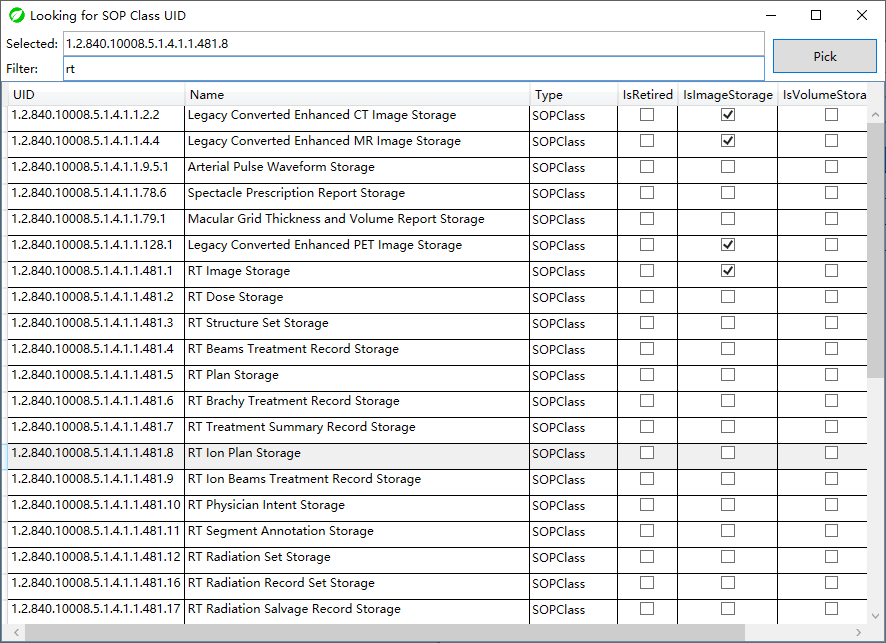
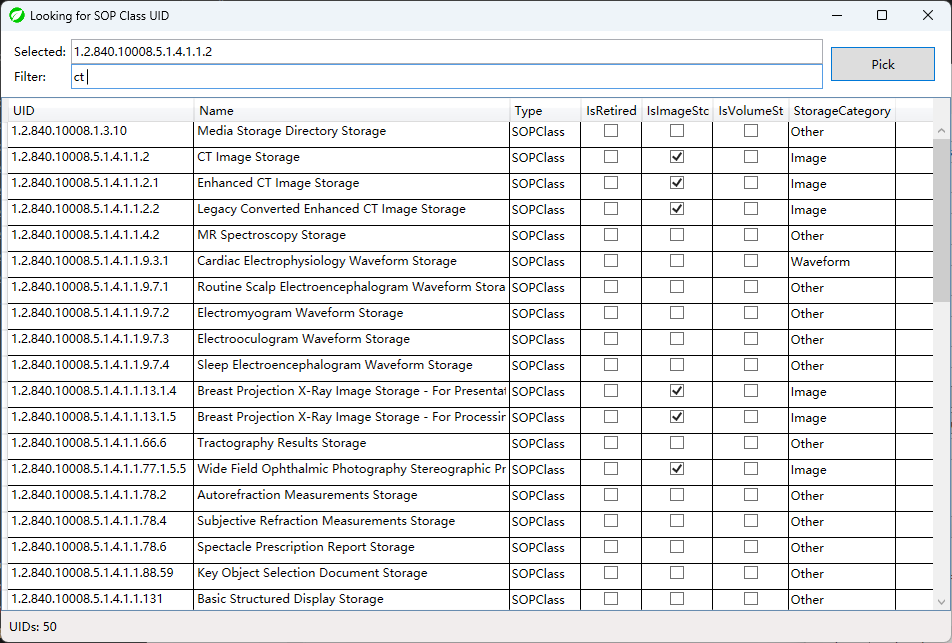
Update README screenshots

Changed region(s): [[0.0, 0.0, 1.0, 1.0], [0.9142, 0.0, 1.0, 0.0311], [0.9752, 0.9331, 1.0, 0.9642]]

diff --git a/README.md b/README.md
@@ -36,7 +36,7 @@ DICOM Dictionary.sample.xml --> DICOM Dictionary.xml
 And add you own public & private tags in these files. DicomGrep will apply the changes when startup. Then you can see these tags via lookup Window.
 
 ## Screenshots
-(v1.2.0)
+(v1.5.0)
 
 ![Main Window](./screenshots/01.png)
 
@@ -44,6 +44,7 @@ And add you own public & private tags in these files. DicomGrep will apply the c
 
 ![Lookup DICOM Tag Dictionary](./screenshots/03.png)
 
+![Right click menu](./screenshots/04.png)
 
 ## License
 [Microsoft Public License (MS-PL)](License.txt)
